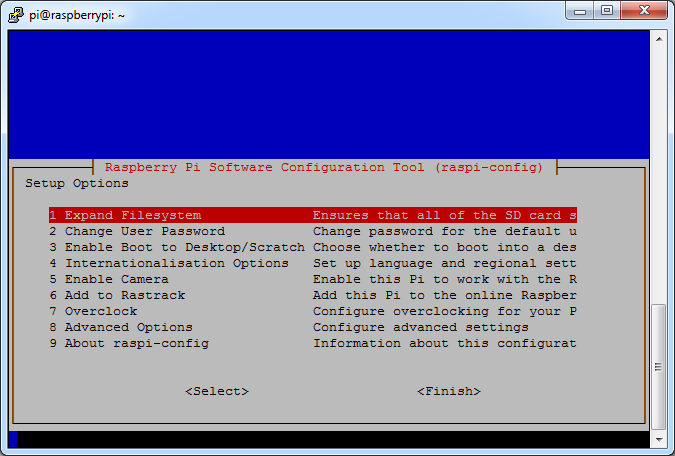
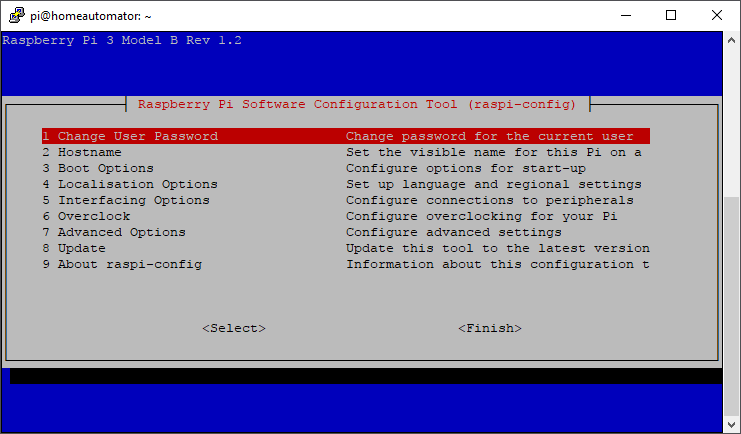
Update chapter on raspbian

diff --git a/rpi_operating_system/readme.md b/rpi_operating_system/readme.md
@@ -49,11 +49,11 @@ If you deployed an OS such as Raspbian than you can attach an HDMI display. You 
 
 ### SSH Connection
 
-Raspbian comes default with the SSH daemon enabled. This allows us to connect to the Pi from a remote computer using the SSH protocol. Before we can do this we will have to determine the IP address of the Pi. In case of a home network you can log on to your router and look for the last IP address that was given by your DHCP server running on the router.
+Raspbian comes default with the SSH daemon disabled. It can be enabled via a startup file or via the `raspi-config` command (see later). SSH allows us to connect to the Pi from a remote computer using the SSH protocol. Before this can be done you will have to enable SSH and also determine the IP address of the Pi.
 
 > #### Note::SSH
 >
-> SSH or Secure Shell is a secure way to connect to a device and execute commands from a distance. In the old days Telnet was the way to go but it sends all commands and login information as clear text. With SSH everything is encrypted. Default SSH daemon listen on port 22. See chapter xxxx for more information on SSH.
+> SSH or Secure Shell is a secure way to connect to a device and execute commands from a distance. In the old days Telnet was the way to go but it sends all commands and login information as clear text. With SSH everything is encrypted. Default SSH daemon listen on port 22.
 
 Connecting to a device using the SSH protocol can be easily achieved using a terminal tool such as Putty. All you have to do is start Putty and select the SSH connection option and specify the IP address of the device as shown in Figure 6. Once the connection is configured you can open it.
 
@@ -91,33 +91,39 @@ If you reboot your Raspberry Pi at this moment you will see the kernel messages 
 
 ## Initial Configuration
 
-Before doing anything with the Raspberry Pi its best to first configure the operating system. This can be achieved by executing the command below to get a grapgical configuration menu:
+> #### Warning::Keyboard Layout
+>
+> If you are using the Raspberry Pi using a display and keyboard you may want to change the keyboard layout before continuing to avoid typing command wrongly or setting a wrong password later on. In Raspbian go to the start menu (raspberry logo) at the top left corner. Next traverse to `Preferences => Mouse and Keyboard Setting => Keyboard => Keyboard Layout`. Now select "Belgium" as country and "Belgian" as variant.
+
+Before doing anything with the Raspberry Pi its best to first configure the operating system. This can be achieved by executing the command below to get a graphical configuration menu:
 
 ```shell
 sudo raspi-config
 ```
 
-Don't worry too much about how this works. This will be explained in a later chapter. Once you're done configuring the Pi, choose the Finish option and let the Pi reboot.
-
 ![Raspbian configuration tool](img/raspi_config.png)
 
-### Expanding the Filesystem
+Generally speaking, `raspi-config` aims to provide the functionality to make the most common configuration changes. This may result in automated edits to  `/boot/config.txt` and various standard Linux configuration files. Some options require a reboot to take effect. If you changed any of those, `raspi-config` will ask if you wish to reboot now when you select the `<Finish>` button.
 
-The first thing we need to do is expand the filesystem. Currently we are using SD cards of 8GB, 16GB or 32GB but the root file system only takes up about 3GB (with more than 80% in use). So to expand the root filesystem to the full SD card we can use the Expand Filesystem configuration script. You will need to reboot the Raspberry Pi to make this available.
+The most important options are discussed in the sections below.
+
+#### Hostname
+
+Set the visible name for this Pi on a network.
 
 ### Change User Password
 
-The "Change User Password" tool allows you to change the default password of the pi user. Make sure to do this before continuing. Watch out if you do this using an external keyboard as the keyboard layout may be configured to qwerty. In this case configure the keyboard layout first by selecting the internationalization menu option.
+The `Change User Password` option allows you to change the default password of the `pi` user. Make sure to do this before continuing. Watch out if you do this using an external keyboard as the keyboard layout may be configured to qwerty. In this case configure the keyboard layout first as mentioned before.
 
-### Enable Boot to Desktop / Scratch
+### Boot Options
 
-You can change what happens when your Pi boots. Use this option to change your boot preference to command line, desktop, or straight to Scratch (graphical programming). In our case we will be using the command line interface.
+Here you can change what happens when your Pi boots. Use this option to change your boot preference to command line, desktop, or straight to Scratch (graphical programming).
 
-### Internationalization Options
+### Localization Options
 
-This will open up a sub menu with internationalization options to configure.
+This will open up a sub menu with internationalization options to configure such as your locale and timezone.
 
-#### Change Locale
+#### Locale
 
 Locales are a framework to switch between multiple languages and allow users to use their language, country, characters, collation order, etc.
 
@@ -129,52 +135,35 @@ Select both `en_US.UTF-8 UTF-8` and `nl_BE.UTF-8 UTF-8`. On the next screen you 
 
 The time zone should be changed to "Europe – Brussels" to reflect our own time zone.
 
-#### Change Keyboard Layout
+### Interfacing Options
 
-This option opens another menu which allows you to select your keyboard layout. It will take a long time to display while it reads all the keyboard types. Changes usually take effect immediately, but may require a reboot.
+Allows us to enable and disable all sorts of interfaces that connect with external peripherals and/or services.
 
-This option however does not seem to work with the current version of the configuration tool.
-
-You can however change between US and BE keyboard layout by executing one of the following commands the next time you get to the command line interface:
-
-```shell
-$ sudo setxkbmap us -variant euro
-```
-
-or for an azerty layout:
-
-```shell
-$ sudo setxkbmap be
-```
-
-Do take note that this change is only temporarily and will not be remembered once you reboot.
-
-You can get some extra information about the current keyboard layout by issuing the following command:
-
-```shell
-setxkbmap -print -verbose 10
-```
-
-### Enable Camera
+#### Enable Camera
 
 In order to use the Raspberry Pi camera module, you must enable it here. This option will also make sure at least 128MB of RAM is dedicated to the GPU.
 
-### Add to Rastrack
+#### SSH
 
-Rastrack is a user-contributed Google Map to which Pi users in the community have added their location; it shows a heat map of where Pi users are known to be around the world. This was set up by young Pi enthusiast Ryan Walmsley in 2012. Rastrack is located at rastrack.co.uk.
+Enable/disable remote command line access to your Pi using SSH (Secure Shell).
 
-Skip this option for the LAB.
+SSH allows you to remotely access the command line of the Raspberry Pi from another computer. Disabling this ensures the SSH service does not start on boot, freeing up processing resources. Note that SSH is disabled by default. If connecting your Pi directly to a public network, you should disable SSH unless you have set up secure passwords for all users.
 
-### Overclock
+#### SPI
 
-It is possible to overclock your Raspberry Pi's CPU. The default is 700MHz but it can be set up to 1000MHz. The overclocking you can achieve will vary; overclocking too high may result in instability.
+Enable/disable automatic loading of SPI (Serial Peripheral Interface) kernel module, needed for products such as PiFace.
 
-Selecting this option shows the following warning:
-*Be aware that overclocking may reduce the lifetime of your Raspberry Pi. If overclocking at a certain level causes system instability, try a more modest overclock. Hold down 'shift' during boot to temporarily disable overclock.*
+#### I2C
+
+Enable/Disable I2C interfaces and automatic loading of the I2C kernel module. Make sure to enable this as our hardware shield (TouchBerry Pi) makes use of I2C to communicate with the RPi.
 
 ### Advanced Options
 
-The advanced options allow the configuration of the SSH daemon, the hostname, the division of the memory with the GPU and so on.
+The advanced options allow the configuration of the more specialized options such as overscan, the division of the memory with the GPU, OpenGL drivers and so on.
+
+#### Expanding the Filesystem
+
+The first thing we need to do is expand the filesystem. Currently we are using SD cards of 8GB, 16GB or 32GB but the root file system only takes up about 3GB (with more than 80% in use). So to expand the root filesystem to the full SD card we can use the Expand Filesystem configuration script. You will need to reboot the Raspberry Pi to make this available.
 
 #### Overscan
 
@@ -184,30 +173,10 @@ On some displays, particularly monitors, disabling overscan will make the pictur
 
 Any changes will take effect after a reboot.
 
-#### Hostname
-
-Set the visible name for this Pi on a network.
-
 #### Memory Split
 
 Change the amount of memory made available to the GPU (Graphics Processing Unit). When using a graphical desktop environment make sure to give the GPU at least 64MB.
 
-#### SSH
-
-Enable/disable remote command line access to your Pi using SSH (Secure Shell).
-
-SSH allows you to remotely access the command line of the Raspberry Pi from another computer. Disabling this ensures the SSH service does not start on boot, freeing up processing resources. Note that SSH is disabled by default. If connecting your Pi directly to a public network, you should disable SSH unless you have set up secure passwords for all users.
-
-#### SPI
-Enable/disable automatic loading of SPI (Serial Peripheral Interface) kernel module, needed for products such as PiFace.
-
-#### Audio
-Force audio out through HDMI or a 3.5mm jack.
-
-#### Update
+### Update
 
 Update this tool (raspi-config) to the latest version. This requires an active Internet connection.
-
-## Reboot
-
-Last but not least save the configuration and let the Raspberry Pi reboot. It is now ready for use.

diff --git a/SUMMARY.md b/SUMMARY.md
@@ -14,7 +14,6 @@
 
 ### The Raspberry Pi
 
-<!-- * [Introduction](python_language/readme.md) -->
 * [RPi OS](rpi_operating_system/readme.md)
 * [Linux Basics](linux_basics/readme.md)
 
